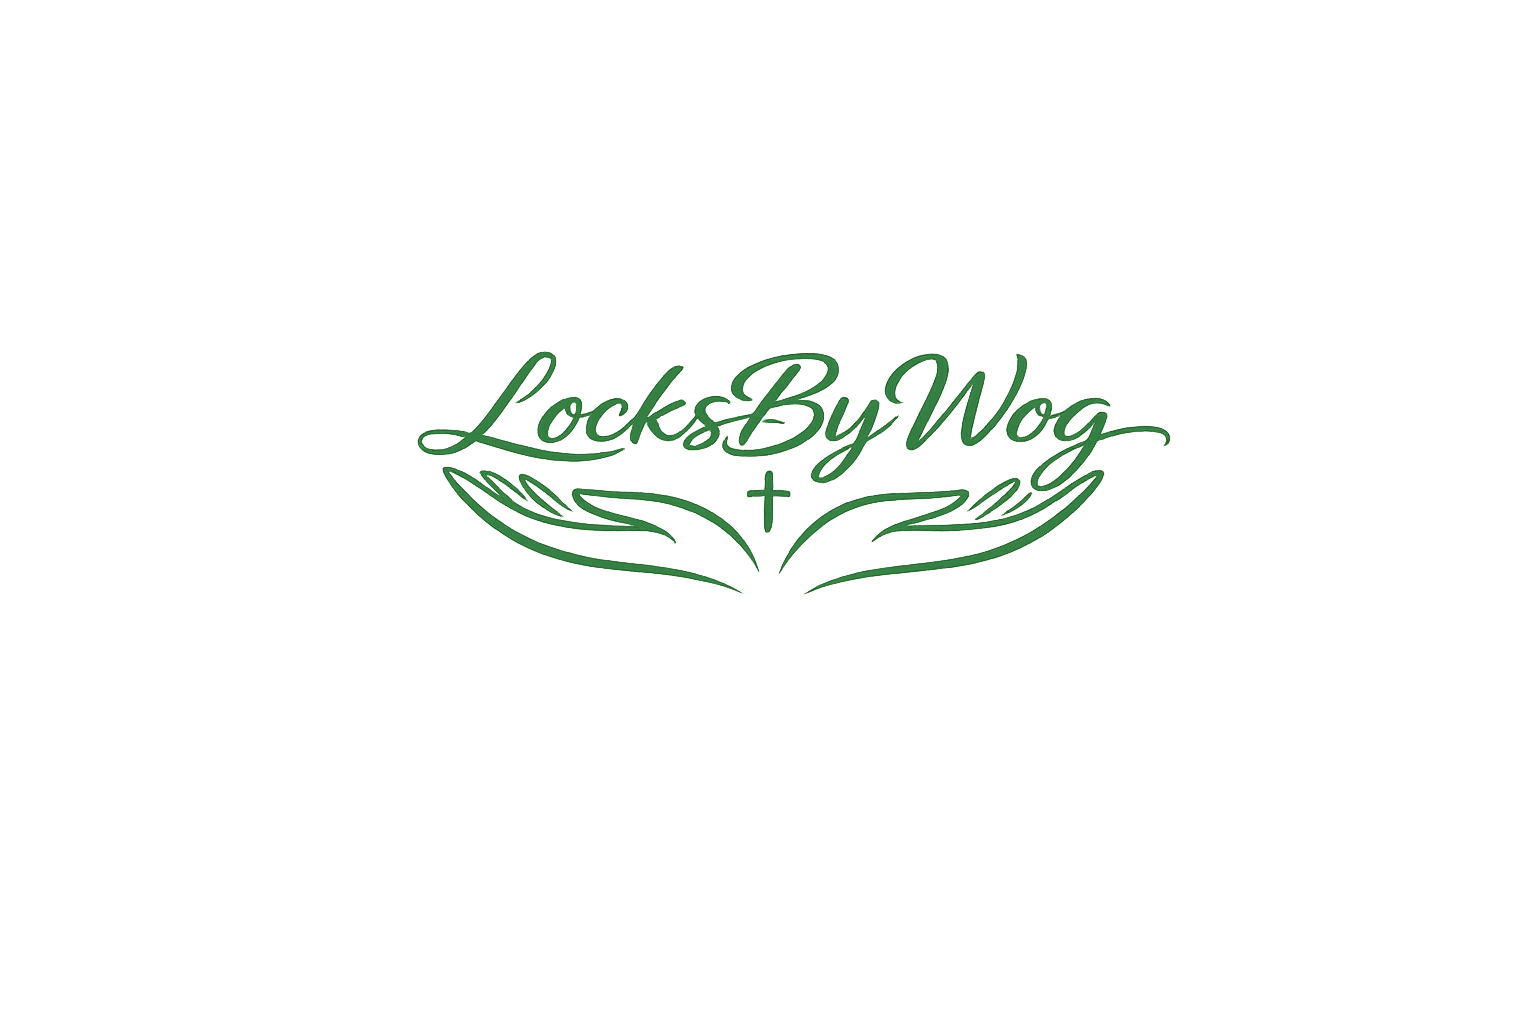
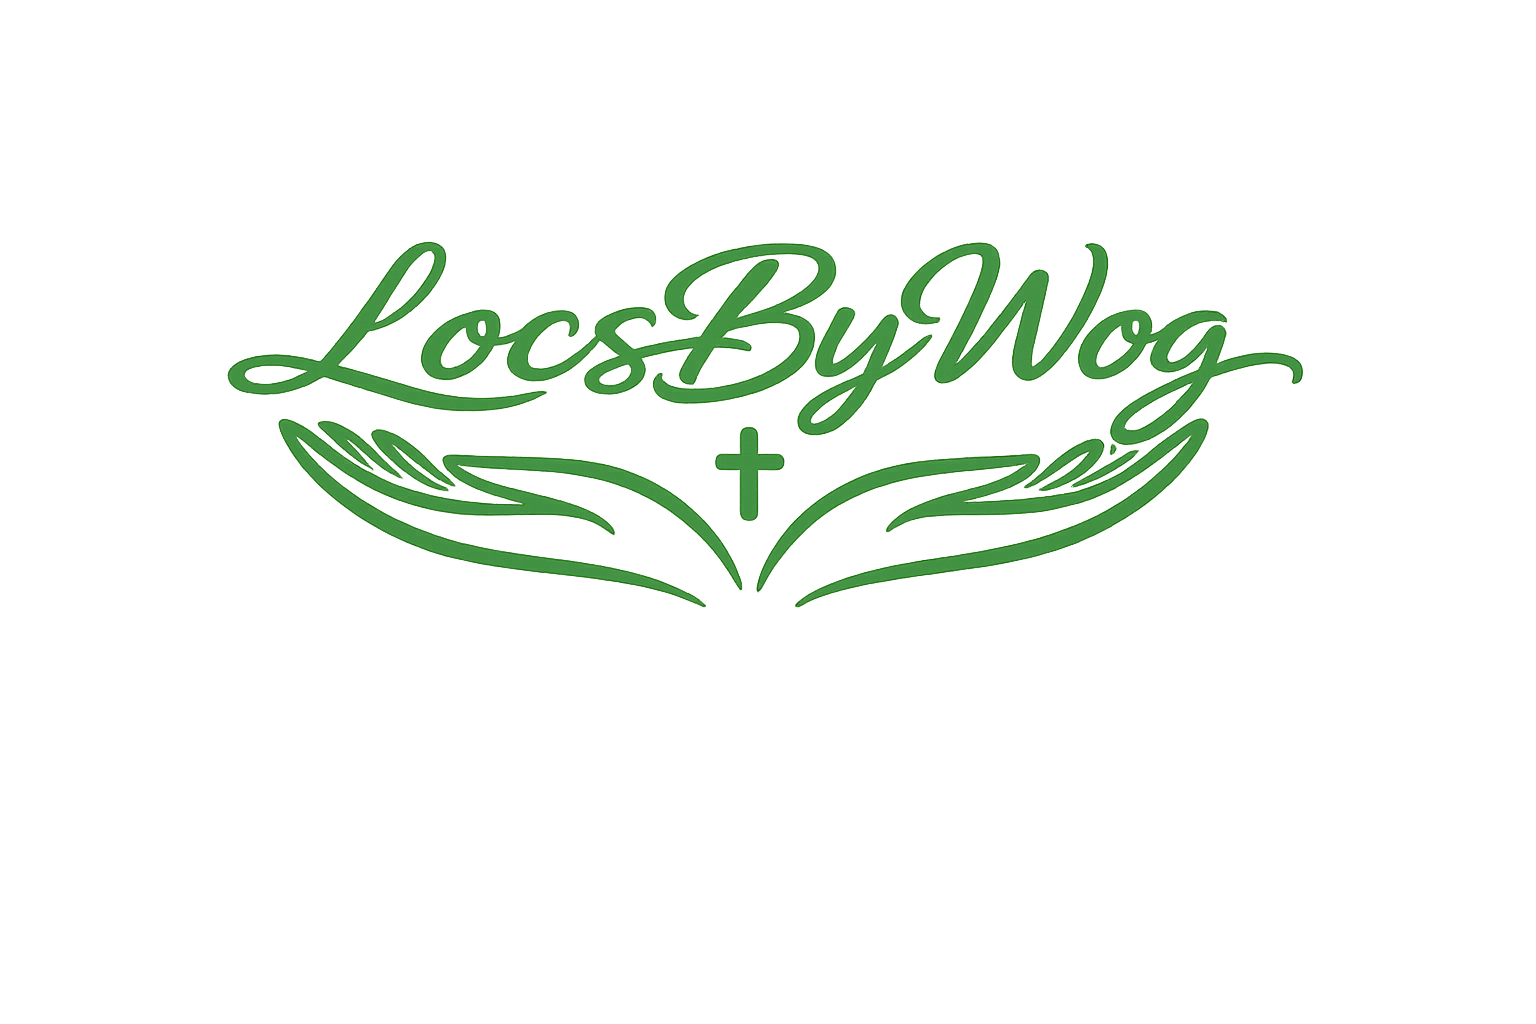
fix: rename all display text from Locks to Locs

Changed region(s): [[0.125, 0.2188, 0.8438, 0.5938]]

diff --git a/index.html b/index.html
@@ -6,8 +6,8 @@
   <meta name="viewport" content="width=device-width, initial-scale=1.0" />
 
   <!-- Primary Meta Tags -->
-  <title>LocksByWog | Locs That Hit Different</title>
-  <meta name="title" content="LocksByWog | Locs That Hit Different" />
+  <title>LocsByWog | Locs That Hit Different</title>
+  <meta name="title" content="LocsByWog | Locs That Hit Different" />
   <meta name="description"
     content="Salford-based loctician specialising in neat, long-lasting protective styles. Secure your spot now." />
   <meta name="theme-color" content="#0B6B4F" />
@@ -15,7 +15,7 @@
   <!-- Open Graph / Facebook / iMessage -->
   <meta property="og:type" content="website" />
   <meta property="og:url" content="https://locksbywog.co.uk" />
-  <meta property="og:title" content="LocksByWog | Locs That Hit Different" />
+  <meta property="og:title" content="LocsByWog | Locs That Hit Different" />
   <meta property="og:description"
     content="Salford-based loctician specialising in neat, long-lasting protective styles. Secure your spot now." />
   <meta property="og:image" content="https://locksbywog.co.uk/images/55764726-E9FA-4DD5-BE69-6E0EF95080E7.jpeg" />
@@ -23,7 +23,7 @@
   <!-- Twitter -->
   <meta property="twitter:card" content="summary_large_image" />
   <meta property="twitter:url" content="https://locksbywog.co.uk" />
-  <meta property="twitter:title" content="LocksByWog | Locs That Hit Different" />
+  <meta property="twitter:title" content="LocsByWog | Locs That Hit Different" />
   <meta property="twitter:description"
     content="Salford-based loctician specialising in neat, long-lasting protective styles. Secure your spot now." />
   <meta property="twitter:image" content="https://locksbywog.co.uk/images/55764726-E9FA-4DD5-BE69-6E0EF95080E7.jpeg" />

diff --git a/src/components/ReferralBanner.tsx b/src/components/ReferralBanner.tsx
@@ -112,7 +112,7 @@ export function ReferralShareWidget({ code }: ReferralShareProps) {
     const [copied, setCopied] = useState(false);
 
     const handleCopy = async () => {
-        const shareText = `Yo bro, use my code "${code}" on locksbywog.com and save £10 on your first booking! 🔥💈`;
+        const shareText = `Yo bro, use my code "${code}" on locsbywog.com and save £10 on your first booking! 🔥💈`;
         try {
             await navigator.clipboard.writeText(shareText);
             setCopied(true);
@@ -132,14 +132,14 @@ export function ReferralShareWidget({ code }: ReferralShareProps) {
 
     const handleShareWhatsApp = () => {
         const text = encodeURIComponent(
-            `Yo bro, use my code "${code}" on locksbywog.com and save £10 on your booking! 🔥💈 Book here: https://locksbywog.com`
+            `Yo bro, use my code "${code}" on locsbywog.com and save £10 on your booking! 🔥💈 Book here: https://locsbywog.com`
         );
         window.open(`https://wa.me/?text=${text}`, '_blank');
     };
 
     const handleShareSMS = () => {
         const text = encodeURIComponent(
-            `Use my code "${code}" on locksbywog.com and save £10! Book here: https://locksbywog.com`
+            `Use my code "${code}" on locsbywog.com and save £10! Book here: https://locsbywog.com`
         );
         window.open(`sms:?body=${text}`, '_blank');
     };

diff --git a/src/sections/ContactSection.tsx b/src/sections/ContactSection.tsx
@@ -98,7 +98,7 @@ export function ContactSection() {
             <div className="mt-12 flex justify-center">
               <img
                 src="/images/locksbywogggg.png"
-                alt="LocksByWog Logo"
+                alt="LocsByWog Logo"
                 className="w-32 h-auto opacity-80"
               />
             </div>
@@ -112,7 +112,7 @@ export function ContactSection() {
         >
           <div className="flex flex-col md:flex-row md:items-center md:justify-between gap-4">
             <a href="/admin" className="text-sm text-near-black/60 text-center md:text-left hover:text-near-black/60 no-underline cursor-default">
-              © {new Date().getFullYear()} LocksByWog. All rights reserved.
+              © {new Date().getFullYear()} LocsByWog. All rights reserved.
             </a>
             <div className="flex gap-6 justify-center md:justify-start">
               <a

diff --git a/src/sections/HeroSection.tsx b/src/sections/HeroSection.tsx
@@ -91,7 +91,7 @@ export function HeroSection({ onBookClick }: HeroSectionProps) {
       >
         <img
           src="/images/locksbywogggg.png"
-          alt="LocksByWog Logo"
+          alt="LocsByWog Logo"
           className="h-16 md:h-28 w-auto object-contain drop-shadow-[4px_4px_0_rgba(18,18,18,1)]"
         />
       </div>
@@ -104,7 +104,7 @@ export function HeroSection({ onBookClick }: HeroSectionProps) {
         <div className="image-frame overflow-hidden bg-off-white w-[90vw] md:w-[50vw] max-w-[500px]">
           <img
             src="/images/55764726-E9FA-4DD5-BE69-6E0EF95080E7.jpeg"
-            alt="Beautiful locs by LocksByWog"
+            alt="Beautiful locs by LocsByWog"
             className="w-full h-auto object-cover"
             style={{ aspectRatio: '4/5' }}
           />

diff --git a/src/sections/PortfolioSection.tsx b/src/sections/PortfolioSection.tsx
@@ -46,7 +46,7 @@ export function PortfolioSection({ onBookClick }: PortfolioSectionProps) {
               <div className="image-frame overflow-hidden h-full">
                 <img
                   src={src}
-                  alt={`Locks by Wog Portfolio ${index + 1}`}
+                  alt={`Locs by Wog Portfolio ${index + 1}`}
                   className="w-full h-full object-cover transition-transform duration-500 hover:scale-105"
                   style={{ aspectRatio: '4/5' }}
                   loading={index < 3 ? "eager" : "lazy"}

diff --git a/src/components/Navigation.tsx b/src/components/Navigation.tsx
@@ -47,7 +47,7 @@ export function Navigation({ onBookClick }: NavigationProps) {
           >
             <img
               src="/images/locksbywogggg.png"
-              alt="LocksByWog Logo"
+              alt="LocsByWog Logo"
               className="h-10 md:h-12 w-auto object-contain"
             />
           </button>
